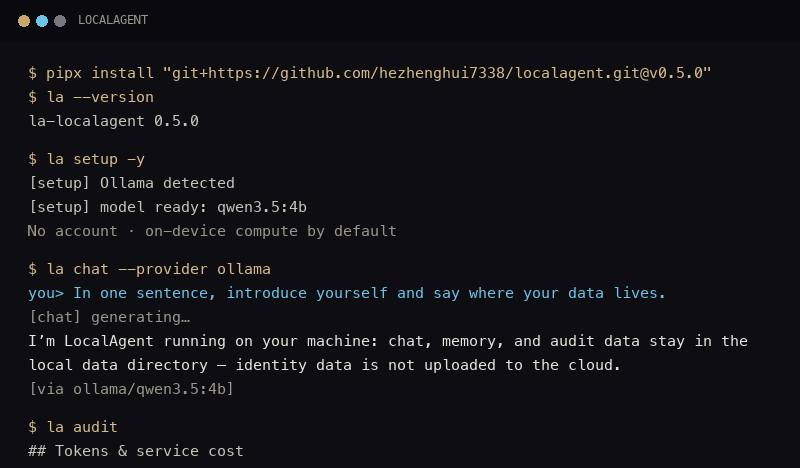
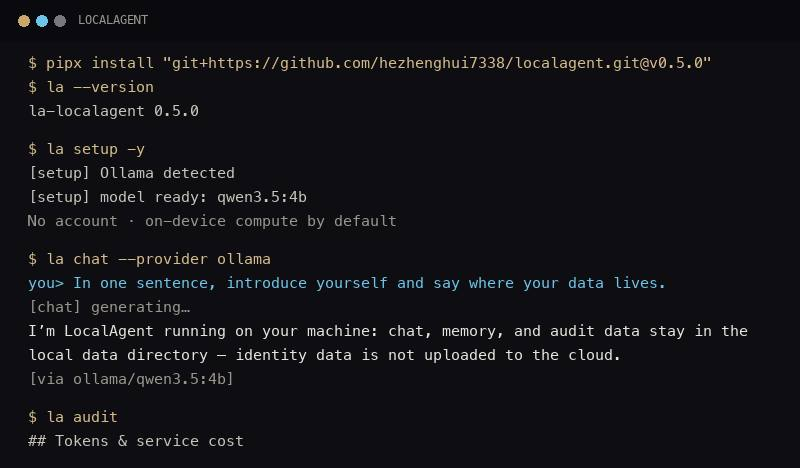
fix: 官网 Demo 短片滚动贴底，避免结尾文字被裁切。
内容超出画幅时自动上滚，保证最后几行始终可见。

diff --git a/website/demos/render_demos.py b/website/demos/render_demos.py
@@ -123,6 +123,12 @@ def _draw_chrome(draw: ImageDraw.ImageDraw, width: int, title_font: ImageFont.Im
     return bar_h
 
 
+def _row_height(kind: str, text: str, font: ImageFont.ImageFont, label_font: ImageFont.ImageFont) -> int:
+    use_font = label_font if kind == "label" else font
+    bbox = use_font.getbbox(text or " ")
+    return max(18, bbox[3] - bbox[1])
+
+
 def _layout_lines(
     events: list[dict],
     *,
@@ -132,7 +138,7 @@ def _layout_lines(
     label_font: ImageFont.ImageFont,
     draw: ImageDraw.ImageDraw,
 ) -> list[tuple[str, str, int]]:
-    """Return visible rows as (kind, text, y)."""
+    """Return rows as (kind, text, y) in content coordinates (may extend past frame)."""
     pad_x = 28
     max_w = width - pad_x * 2
     y = body_top + 22
@@ -149,12 +155,39 @@ def _layout_lines(
         wrapped = _wrap_text(text, use_font, max_w, draw)
         for part in wrapped:
             rows.append((kind, part, y))
-            bbox = use_font.getbbox(part or " ")
-            h = max(18, bbox[3] - bbox[1])
-            y += h + line_gap
+            y += _row_height(kind, part, font, label_font) + line_gap
         if kind == "label":
             y += 4
     return rows
+
+
+def _scroll_rows(
+    rows: list[tuple[str, str, int]],
+    *,
+    height: int,
+    body_top: int,
+    font: ImageFont.ImageFont,
+    label_font: ImageFont.ImageFont,
+    bottom_pad: int = 18,
+) -> tuple[list[tuple[str, str, int]], int]:
+    """Pin latest lines in view; return (visible rows with adjusted y, scroll_offset)."""
+    if not rows:
+        return [], 0
+    last_kind, last_text, last_y = rows[-1]
+    content_bottom = last_y + _row_height(last_kind, last_text, font, label_font)
+    view_bottom = height - bottom_pad
+    scroll = max(0, content_bottom - view_bottom)
+    if scroll == 0:
+        return rows, 0
+    visible: list[tuple[str, str, int]] = []
+    for kind, text, y in rows:
+        ny = y - scroll
+        line_h = _row_height(kind, text, font, label_font)
+        # Keep any line that intersects the body viewport.
+        if ny + line_h < body_top + 4 or ny > height:
+            continue
+        visible.append((kind, text, ny))
+    return visible, scroll
 
 
 def render_frame(
@@ -170,18 +203,28 @@ def render_frame(
     bar_h = _draw_chrome(draw, width, fonts["title"])
     draw.rectangle((0, bar_h, width, height), fill=COLORS["bg"])
 
-    for kind, text, y in rows:
+    scrolled, scroll = _scroll_rows(
+        rows,
+        height=height,
+        body_top=bar_h,
+        font=fonts["body"],
+        label_font=fonts["label"],
+    )
+
+    for kind, text, y in scrolled:
         color = KIND_COLOR.get(kind, COLORS["text"])
         font = fonts["label"] if kind == "label" else fonts["body"]
         draw.text((28, y), text, fill=color, font=font)
 
     if cursor is not None:
         kind, x, y = cursor
-        color = KIND_COLOR.get(kind, COLORS["text"])
-        font = fonts["body"]
-        ch_w = max(8, int(draw.textlength("M", font=font)))
-        ch_h = 16
-        draw.rectangle((x, y + 2, x + max(2, ch_w // 3), y + ch_h), fill=color)
+        y = y - scroll
+        if y + 16 >= bar_h and y <= height:
+            color = KIND_COLOR.get(kind, COLORS["text"])
+            font = fonts["body"]
+            ch_w = max(8, int(draw.textlength("M", font=font)))
+            ch_h = 16
+            draw.rectangle((x, y + 2, x + max(2, ch_w // 3), y + ch_h), fill=color)
 
     return img
 